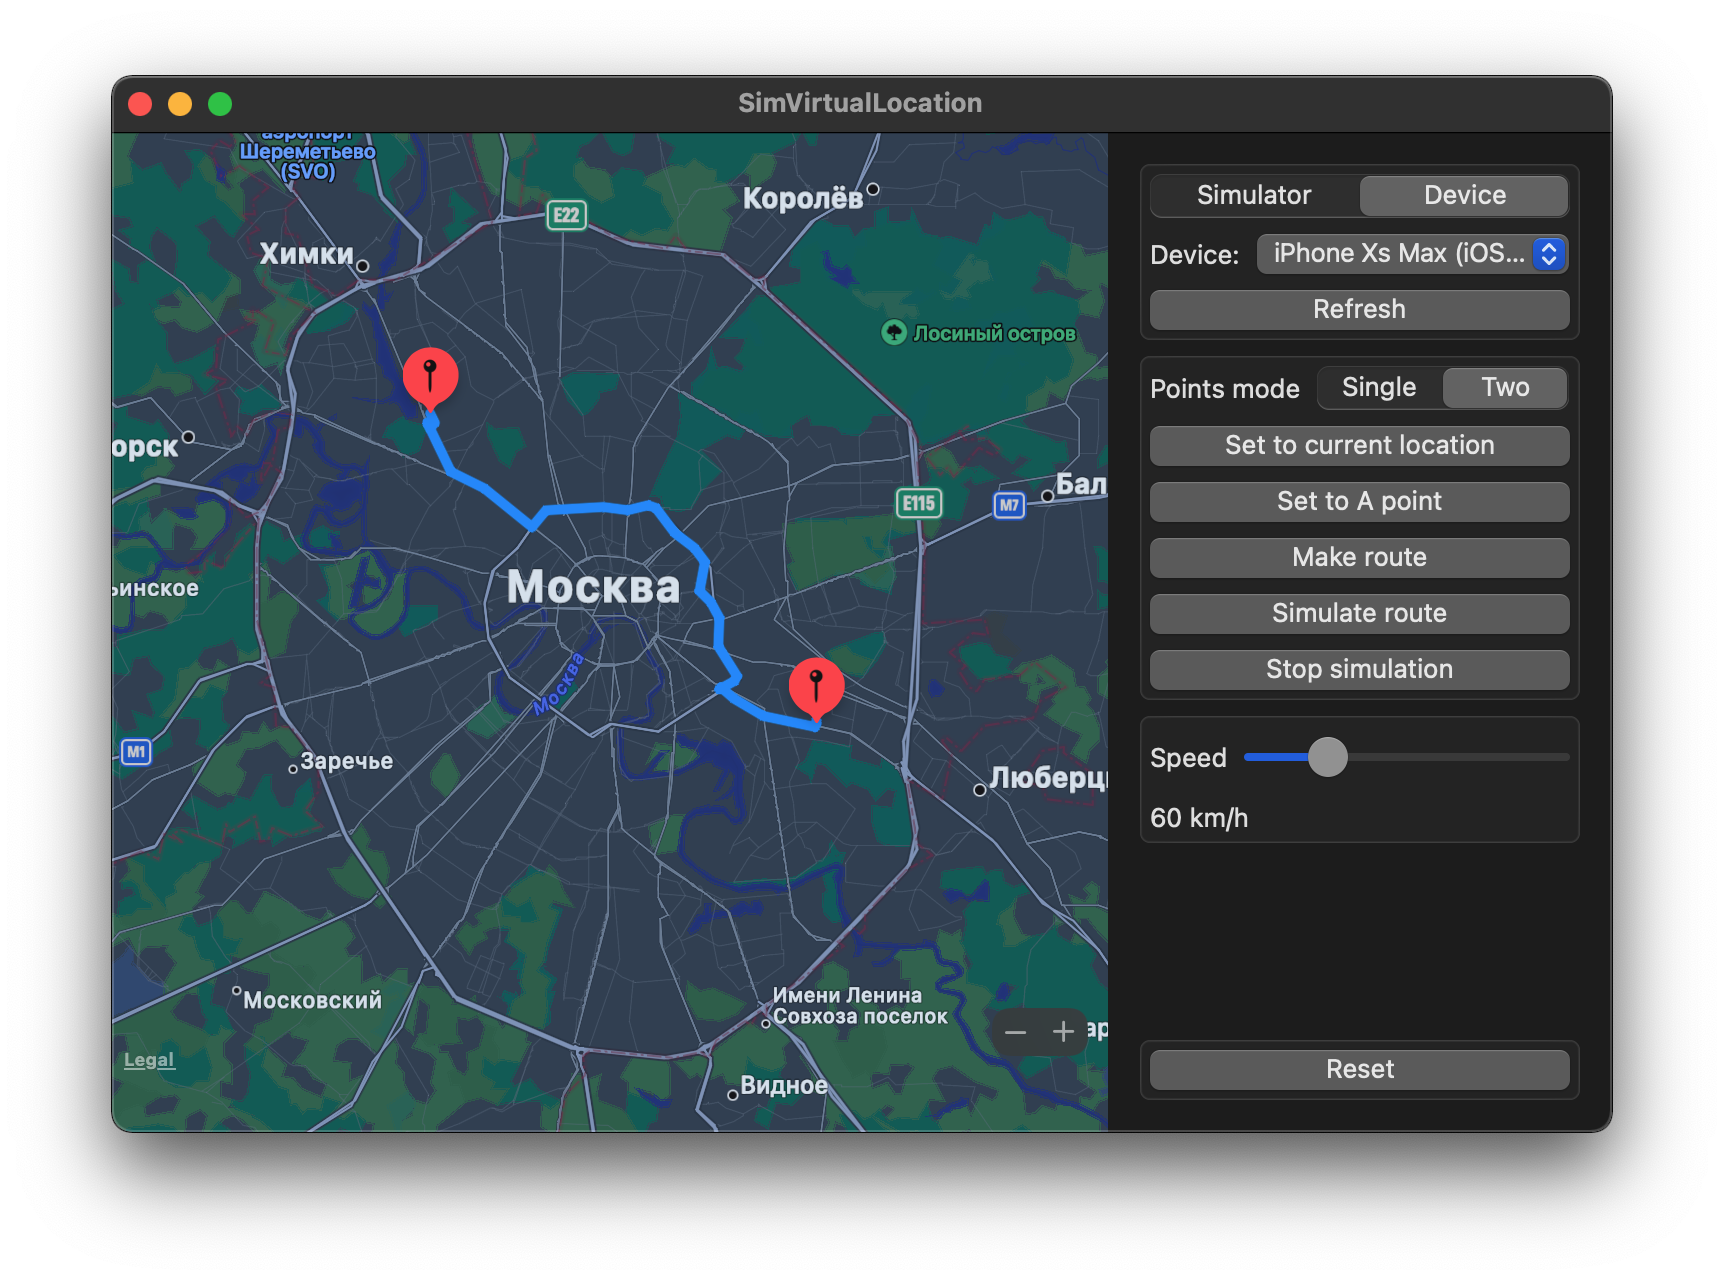
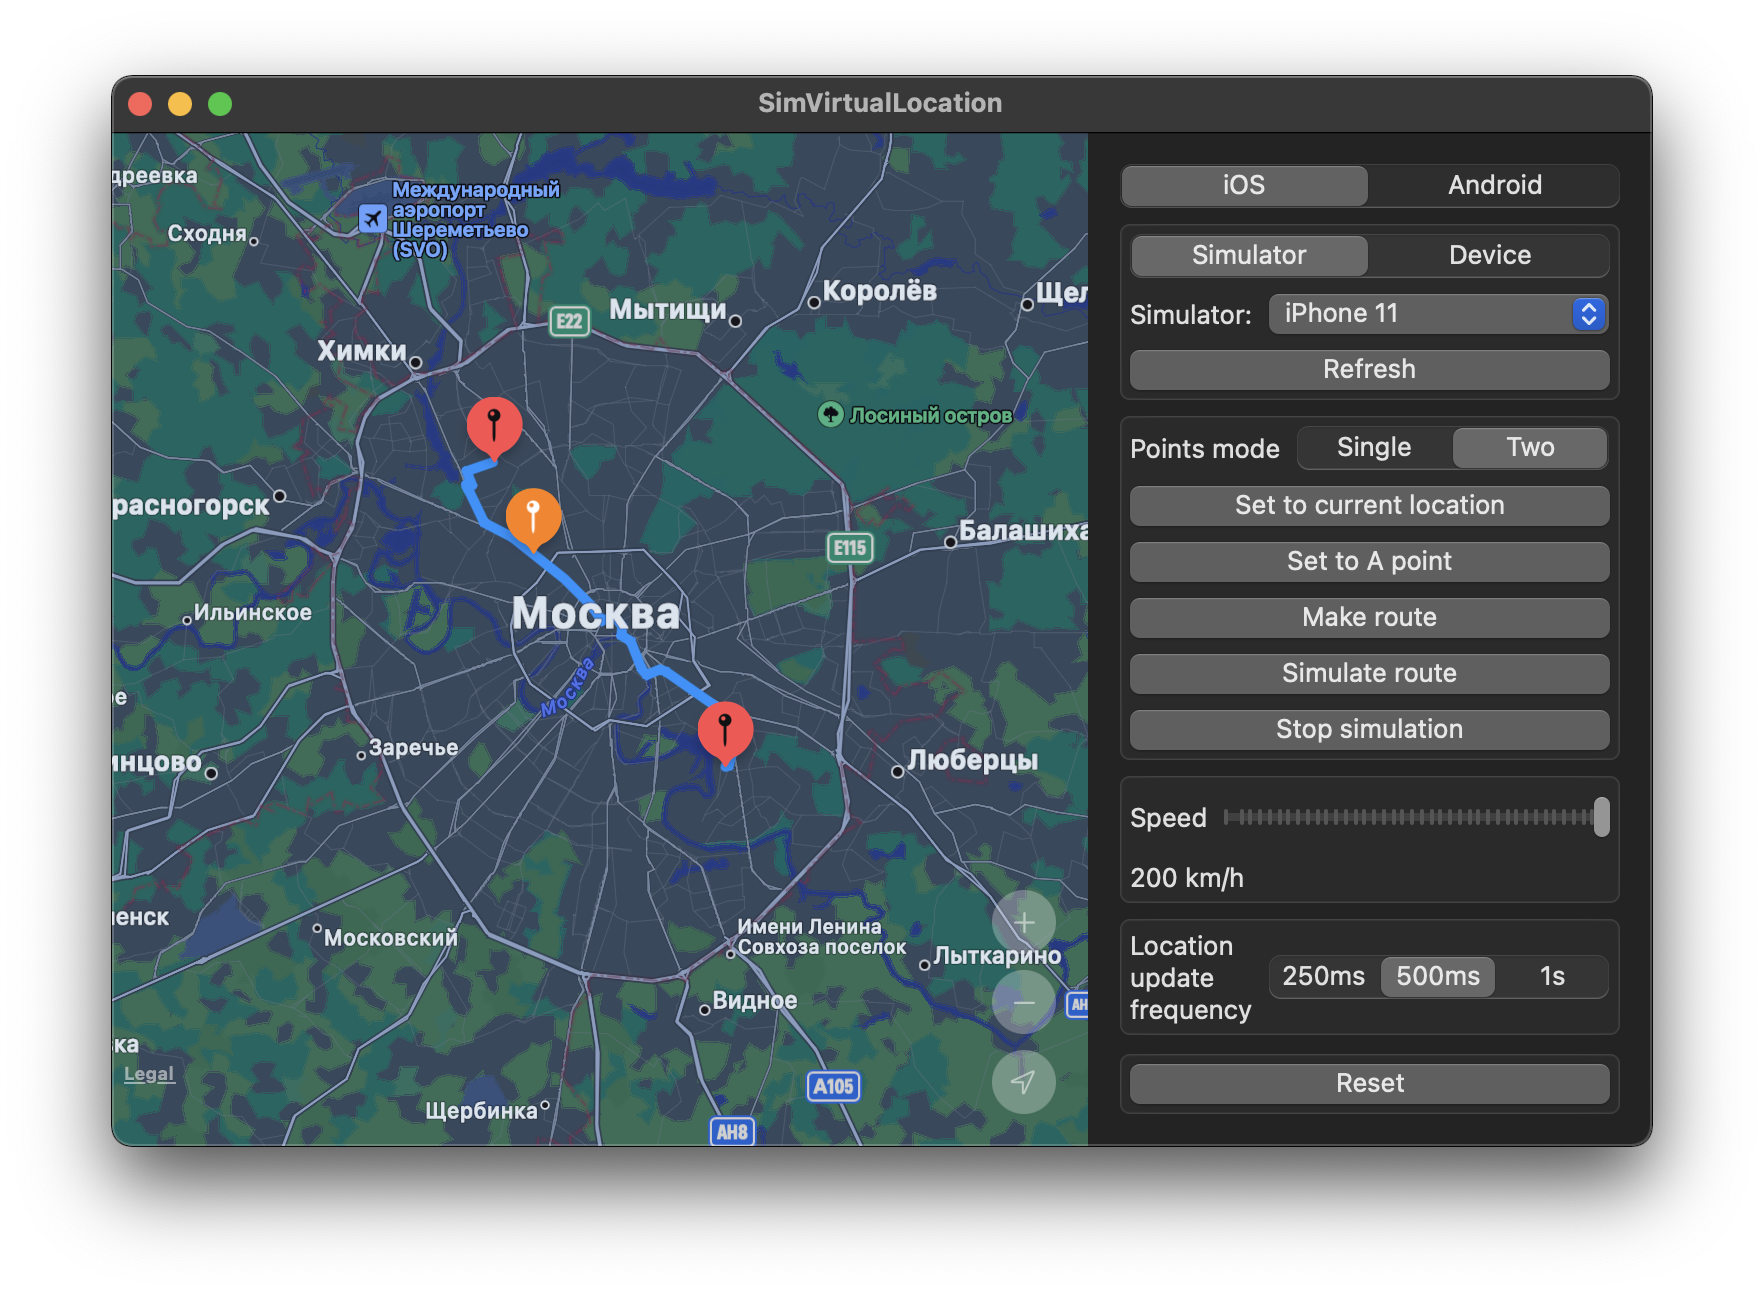
Updated REAMDE.md

diff --git a/README.md b/README.md
@@ -1,22 +1,35 @@
 # SimVirtualLocation
 
-Easy to use MacOS 11+ application for easy mocking iOS device and simulator location in realtime. Built on top of  [set-simulator-location](https://github.com/MobileNativeFoundation/set-simulator-location) and [idevicelocation](https://github.com/JonGabilondoAngulo/idevicelocation).
+Easy to use MacOS 11+ application for easy mocking iOS device and simulator location in realtime. Built on top of  [set-simulator-location](https://github.com/MobileNativeFoundation/set-simulator-location) and [idevicelocation](https://github.com/JonGabilondoAngulo/idevicelocation). Android support is realized with [SimVirtualLocation](https://github.com/nexron171/android-mock-location-for-development) android app which is fork from [android-mock-location-for-development](https://github.com/amotzte/android-mock-location-for-development).
 
 Posibilities:
-- set device location to current location of Mac
-- set device location to point on map
-- set simulator location to current location of Mac
-- set simulator location to point on map
-- make route between two points and simulate walking or driving with desired speed on both simulator and device
+- supports both iOS and Android
+- set location to current Mac's location
+- set location to point on map
+- make route between two points and simulate moving with desired speed
 
 You can dowload compiled and signed app [here](https://github.com/nexron171/SimVirtualLocation/releases).
 
 ![App Screen Shot](https://raw.githubusercontent.com/nexron171/SimVirtualLocation/master/assets/screenshot.png)
 
-## Dependencies
-
-`libimobiledevice` and `libzip` are should be installed on mac through `brew`
+## FAQ
+---
+### For iOS devices
+`libimobiledevice` and `libzip` are should be installed on mac ? through `brew`
 
 ```shell
 brew install libimobiledevice && brew install libzip
 ```
+
+### If iOS device is unlisted
+
+Try to refresh list and if it does not help - go to Settings / Developer and click Clear trusted computers. Replug cable and press refresh. If it still not in list - go to Xcode / Devices and simulators and check your device, there are should not be any yellow messages. If it has - make all that it requires.
+
+---
+### For Android
+1. Check if debugging over USB is enabled
+1. Specify ADB path (for example `/User/dev/android/tools/adb`)
+1. Specify your device id (type `adb devices` in the terminal to see id)
+1. Setup helper app by clicking `Install Helper App` and open it on the phone
+1. Grant permission to mock location - go to Developer settings and find `Application for mocking locations` or something similar and choose SimVirtualLocation
+1. Keep SimVirtualLocation running in background while mocking
